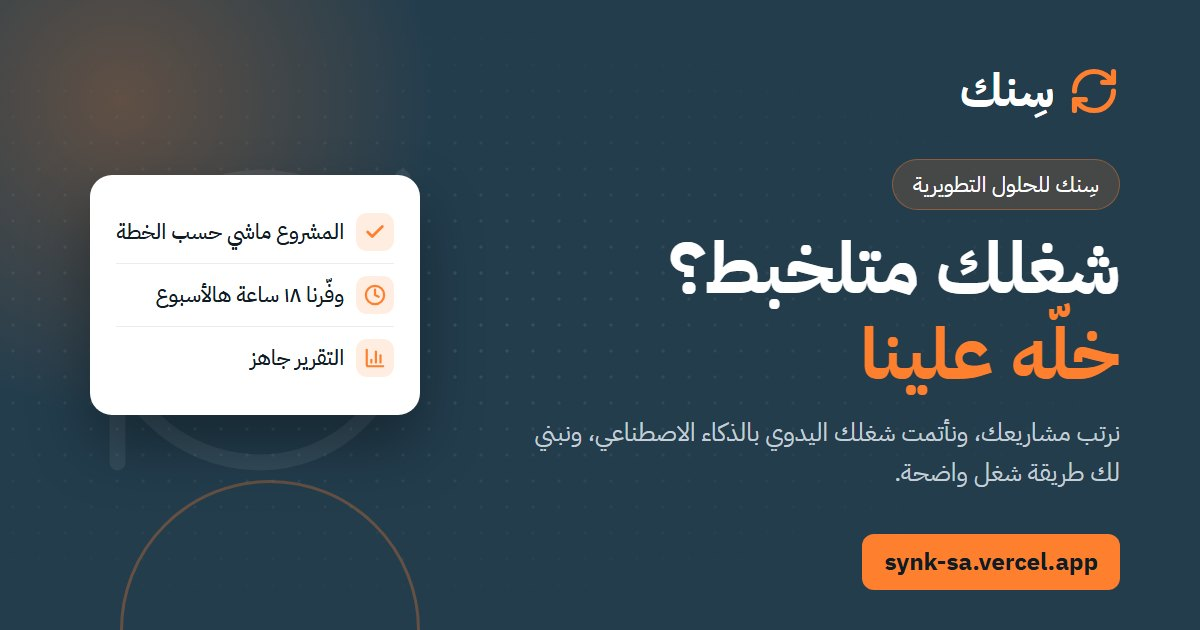
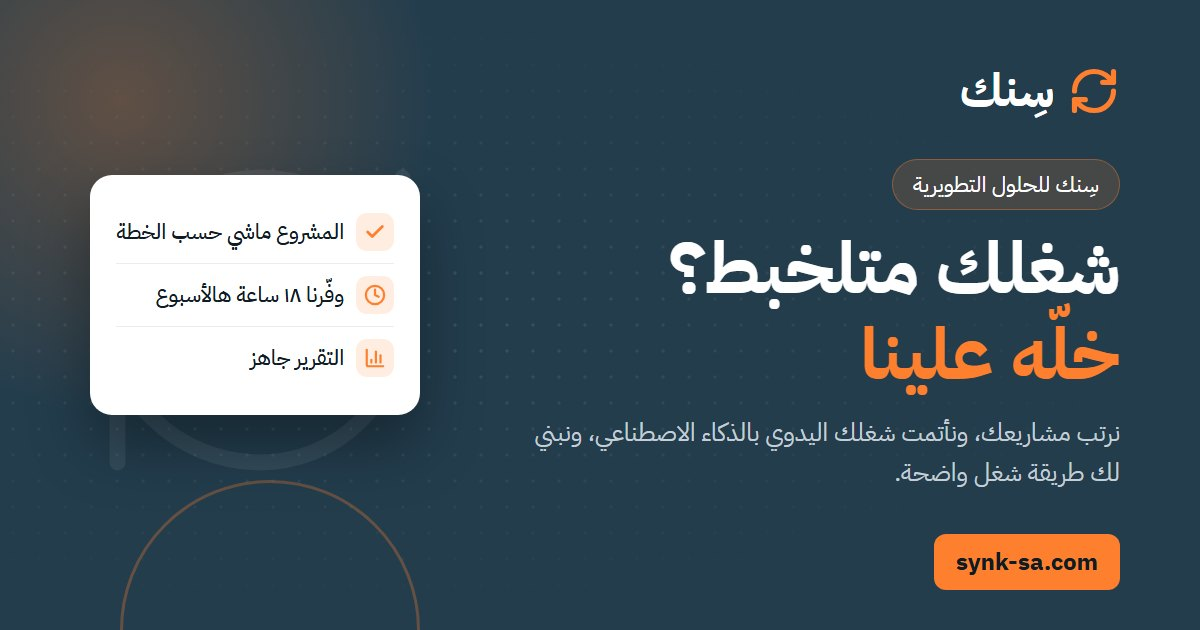
Move site to custom domain synk-sa.com
- Canonical, Open Graph, JSON-LD, sitemap and robots now use https://synk-sa.com
- Redirect www.synk-sa.com and synk-sa.vercel.app to the apex domain
- Share image shows the new domain
- Contact email set to abdulaziz@synk-sa.com

Changed region(s): [[0.7092, 0.8444, 0.925, 0.9651]]

diff --git a/index.html b/index.html
@@ -35,9 +35,9 @@
   <meta property="og:locale" content="ar_SA">
   <meta property="og:type" content="website">
   <meta property="og:site_name" content="سِنك للحلول التطويرية">
-  <meta property="og:url" content="https://synk-sa.vercel.app/">
-  <meta property="og:image" content="https://synk-sa.vercel.app/og-image.jpg">
-  <meta property="og:image:secure_url" content="https://synk-sa.vercel.app/og-image.jpg">
+  <meta property="og:url" content="https://synk-sa.com/">
+  <meta property="og:image" content="https://synk-sa.com/og-image.jpg">
+  <meta property="og:image:secure_url" content="https://synk-sa.com/og-image.jpg">
   <meta property="og:image:type" content="image/jpeg">
   <meta property="og:image:width" content="1200">
   <meta property="og:image:height" content="630">
@@ -45,10 +45,10 @@
   <meta name="twitter:card" content="summary_large_image">
   <meta name="twitter:title" content="سِنك | نرتب شغلك عشان تخلّص أسرع">
   <meta name="twitter:description" content="سِنك تساعد الشركات السعودية ترتب مشاريعها، وتأتمت شغلها اليدوي، وتبني طريقة شغل واضحة. احجز جلستك المجانية.">
-  <meta name="twitter:image" content="https://synk-sa.vercel.app/og-image.jpg">
-  <link rel="canonical" href="https://synk-sa.vercel.app/">
-  <link rel="alternate" hreflang="ar-SA" href="https://synk-sa.vercel.app/">
-  <link rel="alternate" hreflang="x-default" href="https://synk-sa.vercel.app/">
+  <meta name="twitter:image" content="https://synk-sa.com/og-image.jpg">
+  <link rel="canonical" href="https://synk-sa.com/">
+  <link rel="alternate" hreflang="ar-SA" href="https://synk-sa.com/">
+  <link rel="alternate" hreflang="x-default" href="https://synk-sa.com/">
   <link rel="manifest" href="/site.webmanifest">
   <link rel="apple-touch-icon" href="/apple-touch-icon.png">
   <link rel="icon" type="image/png" sizes="512x512" href="/icon-512.png">
@@ -65,21 +65,21 @@
     "@graph": [
       {
         "@type": "Organization",
-        "@id": "https://synk-sa.vercel.app/#organization",
+        "@id": "https://synk-sa.com/#organization",
         "name": "سِنك للحلول التطويرية",
         "alternateName": [
           "سنك",
           "سِنك",
           "Synk"
         ],
-        "url": "https://synk-sa.vercel.app/",
+        "url": "https://synk-sa.com/",
         "logo": {
           "@type": "ImageObject",
-          "url": "https://synk-sa.vercel.app/icon-512.png",
+          "url": "https://synk-sa.com/icon-512.png",
           "width": 512,
           "height": 512
         },
-        "image": "https://synk-sa.vercel.app/og-image.jpg",
+        "image": "https://synk-sa.com/og-image.jpg",
         "description": "سِنك تساعد الشركات في السعودية على تنظيم وإدارة المشاريع، وأتمتة الشغل اليدوي بالذكاء الاصطناعي، وبناء طريقة شغل واضحة. احجز جلستك المجانية ٣٠ دقيقة.",
         "slogan": "نرتب شغلك عشان تخلّص أسرع",
         "areaServed": {
@@ -107,7 +107,7 @@
                 "name": "مشاريعك تحت السيطرة",
                 "description": "نظام إدارة مشاريع يجمع المشاريع والمهام والتكاليف والتقارير في مكان واحد بدل الإكسل والواتساب.",
                 "provider": {
-                  "@id": "https://synk-sa.vercel.app/#organization"
+                  "@id": "https://synk-sa.com/#organization"
                 },
                 "areaServed": {
                   "@type": "Country",
@@ -122,7 +122,7 @@
                 "name": "شغلك يمشي لحاله",
                 "description": "أتمتة الشغل اليدوي المتكرر بالذكاء الاصطناعي: إدخال البيانات والفواتير والتقارير والرد على العملاء.",
                 "provider": {
-                  "@id": "https://synk-sa.vercel.app/#organization"
+                  "@id": "https://synk-sa.com/#organization"
                 },
                 "areaServed": {
                   "@type": "Country",
@@ -137,7 +137,7 @@
                 "name": "شركتك مرتبة من البداية",
                 "description": "تركيب نظام إدارة مشاريع للشركات الناشئة خلال ٣٠ يوم مع سير عمل واضح وتدريب الفريق.",
                 "provider": {
-                  "@id": "https://synk-sa.vercel.app/#organization"
+                  "@id": "https://synk-sa.com/#organization"
                 },
                 "areaServed": {
                   "@type": "Country",
@@ -152,7 +152,7 @@
                 "name": "موظف ذكي على الواتساب",
                 "description": "شات بوت واتساب بالذكاء الاصطناعي يرد على العملاء ٢٤ ساعة ويسجّل الطلبات والمواعيد.",
                 "provider": {
-                  "@id": "https://synk-sa.vercel.app/#organization"
+                  "@id": "https://synk-sa.com/#organization"
                 },
                 "areaServed": {
                   "@type": "Country",
@@ -167,7 +167,7 @@
                 "name": "لوحة أرقام لشركتك",
                 "description": "لوحة تقارير (Dashboard) تعرض المبيعات والمصاريف والمشاريع في شاشة وحدة.",
                 "provider": {
-                  "@id": "https://synk-sa.vercel.app/#organization"
+                  "@id": "https://synk-sa.com/#organization"
                 },
                 "areaServed": {
                   "@type": "Country",
@@ -182,7 +182,7 @@
                 "name": "فوترة إلكترونية تلقائية",
                 "description": "إصدار وإرسال الفواتير تلقائياً بما يتوافق مع متطلبات الفوترة الإلكترونية.",
                 "provider": {
-                  "@id": "https://synk-sa.vercel.app/#organization"
+                  "@id": "https://synk-sa.com/#organization"
                 },
                 "areaServed": {
                   "@type": "Country",
@@ -197,7 +197,7 @@
                 "name": "ربط أنظمتك ببعض",
                 "description": "ربط أنظمة المحاسبة والمبيعات والمخزون ببعض بدون نسخ ولصق.",
                 "provider": {
-                  "@id": "https://synk-sa.vercel.app/#organization"
+                  "@id": "https://synk-sa.com/#organization"
                 },
                 "areaServed": {
                   "@type": "Country",
@@ -212,7 +212,7 @@
                 "name": "طلبات وموافقات إلكترونية",
                 "description": "رقمنة طلبات الشراء والإجازات والموافقات وتوجيهها للشخص الصح.",
                 "provider": {
-                  "@id": "https://synk-sa.vercel.app/#organization"
+                  "@id": "https://synk-sa.com/#organization"
                 },
                 "areaServed": {
                   "@type": "Country",
@@ -227,7 +227,7 @@
                 "name": "تدريب فريقك على الذكاء الاصطناعي",
                 "description": "ورش عملية لتدريب الموظفين على استخدام أدوات الذكاء الاصطناعي في الشغل اليومي.",
                 "provider": {
-                  "@id": "https://synk-sa.vercel.app/#organization"
+                  "@id": "https://synk-sa.com/#organization"
                 },
                 "areaServed": {
                   "@type": "Country",
@@ -240,37 +240,37 @@
       },
       {
         "@type": "WebSite",
-        "@id": "https://synk-sa.vercel.app/#website",
-        "url": "https://synk-sa.vercel.app/",
+        "@id": "https://synk-sa.com/#website",
+        "url": "https://synk-sa.com/",
         "name": "سِنك للحلول التطويرية",
         "inLanguage": "ar-SA",
         "publisher": {
-          "@id": "https://synk-sa.vercel.app/#organization"
+          "@id": "https://synk-sa.com/#organization"
         }
       },
       {
         "@type": "WebPage",
-        "@id": "https://synk-sa.vercel.app/#webpage",
-        "url": "https://synk-sa.vercel.app/",
+        "@id": "https://synk-sa.com/#webpage",
+        "url": "https://synk-sa.com/",
         "name": "سِنك | إدارة المشاريع وأتمتة الأعمال بالذكاء الاصطناعي في السعودية",
         "description": "سِنك تساعد الشركات في السعودية على تنظيم وإدارة المشاريع، وأتمتة الشغل اليدوي بالذكاء الاصطناعي، وبناء طريقة شغل واضحة. احجز جلستك المجانية ٣٠ دقيقة.",
         "inLanguage": "ar-SA",
         "isPartOf": {
-          "@id": "https://synk-sa.vercel.app/#website"
+          "@id": "https://synk-sa.com/#website"
         },
         "about": {
-          "@id": "https://synk-sa.vercel.app/#organization"
+          "@id": "https://synk-sa.com/#organization"
         },
         "primaryImageOfPage": {
           "@type": "ImageObject",
-          "url": "https://synk-sa.vercel.app/og-image.jpg",
+          "url": "https://synk-sa.com/og-image.jpg",
           "width": 1200,
           "height": 630
         }
       },
       {
         "@type": "FAQPage",
-        "@id": "https://synk-sa.vercel.app/#faq",
+        "@id": "https://synk-sa.com/#faq",
         "mainEntity": [
           {
             "@type": "Question",
@@ -1214,7 +1214,7 @@
           </ul>
           <div class="socials">
             <a class="social" href="https://wa.me/966XXXXXXXXX" target="_blank" rel="noopener"><svg class="ico" aria-hidden="true"><use href="#i-whatsapp"/></svg>واتساب</a>
-            <a class="social" href="mailto:hello@synk.sa"><svg class="ico" aria-hidden="true"><use href="#i-mail"/></svg>إيميل</a>
+            <a class="social" href="mailto:abdulaziz@synk-sa.com"><svg class="ico" aria-hidden="true"><use href="#i-mail"/></svg>إيميل</a>
             <a class="social" href="#" target="_blank" rel="noopener"><svg class="ico" aria-hidden="true"><use href="#i-linkedin"/></svg>لينكدإن</a>
           </div>
         </div>
@@ -1295,7 +1295,7 @@
         </nav>
         <div class="footer-social">
           <a href="https://wa.me/966XXXXXXXXX" target="_blank" rel="noopener" aria-label="واتساب"><svg class="ico" aria-hidden="true"><use href="#i-whatsapp"/></svg></a>
-          <a href="mailto:hello@synk.sa" aria-label="إيميل"><svg class="ico" aria-hidden="true"><use href="#i-mail"/></svg></a>
+          <a href="mailto:abdulaziz@synk-sa.com" aria-label="إيميل"><svg class="ico" aria-hidden="true"><use href="#i-mail"/></svg></a>
           <a href="#" target="_blank" rel="noopener" aria-label="لينكدإن"><svg class="ico" aria-hidden="true"><use href="#i-linkedin"/></svg></a>
           <a href="#" target="_blank" rel="noopener" aria-label="إكس"><svg class="ico" aria-hidden="true"><use href="#i-x-logo"/></svg></a>
         </div>
